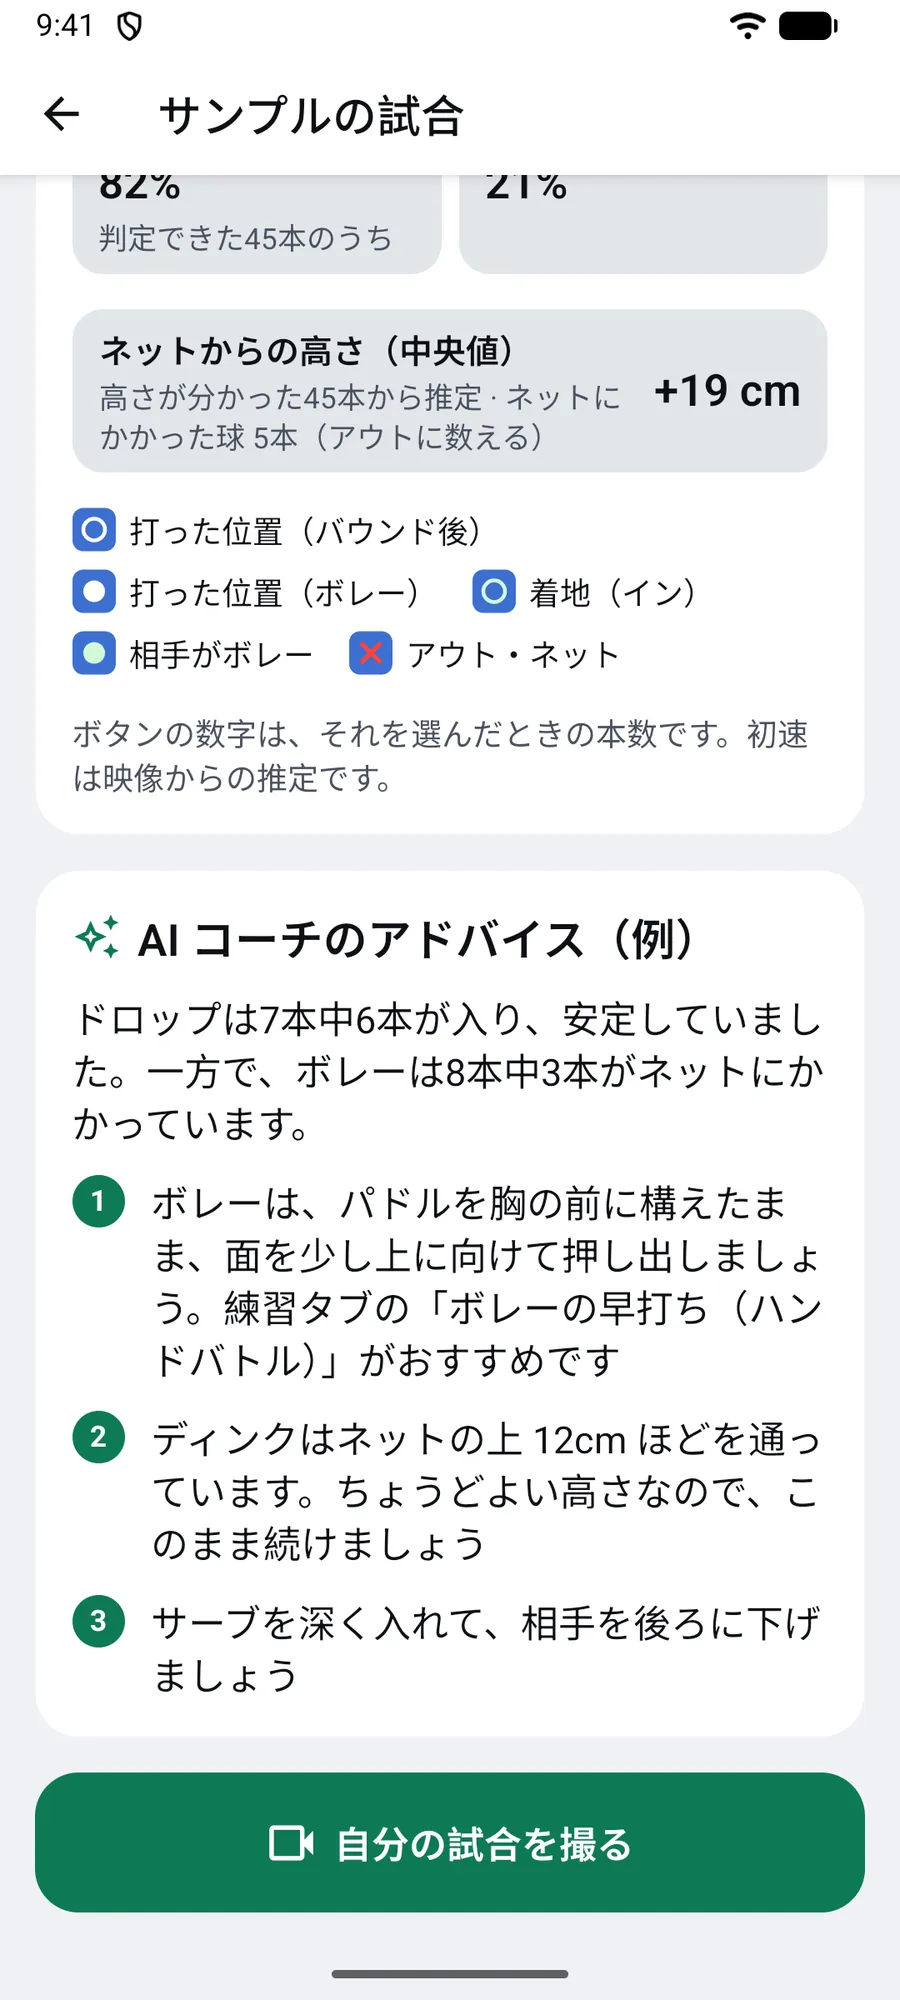
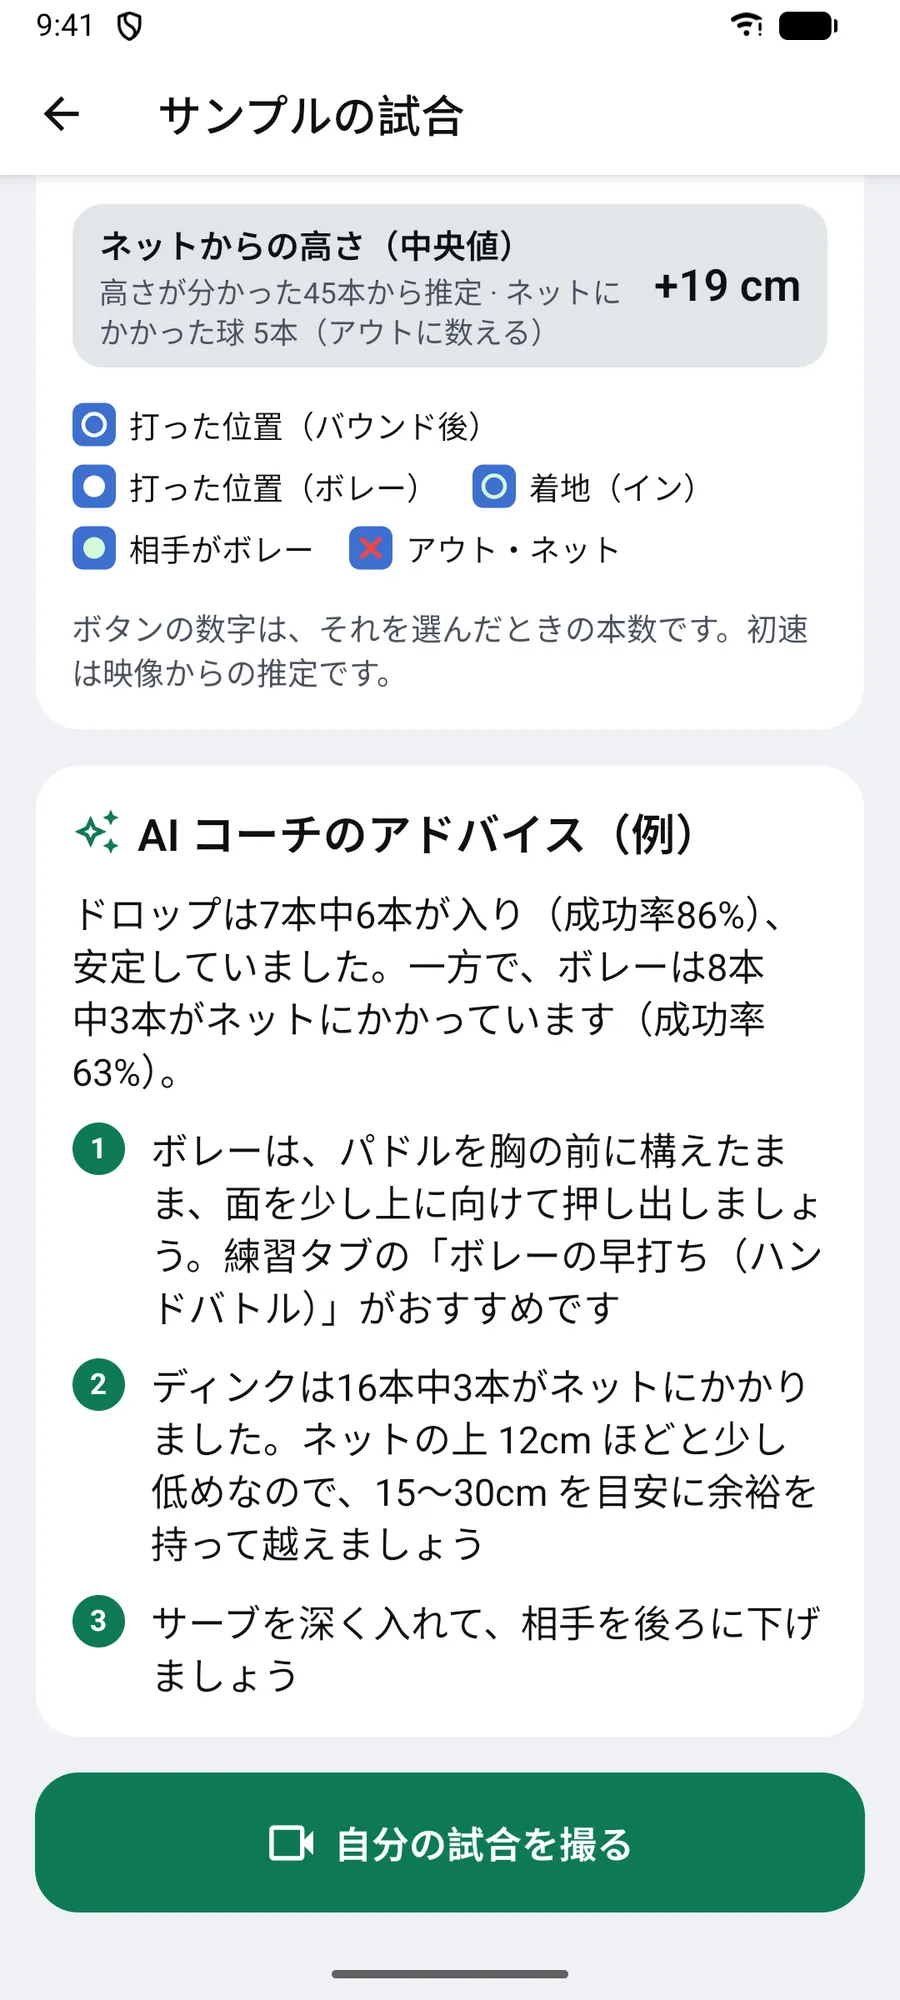
Pickle Up のページ: プライバシーの3つの約束を、前のカードの形（アイコンの四角と背景）に戻す。AI コーチの画像を、成功率とディンクの助言を入れた新しい例で撮り直す
Claude-Session: https://claude.ai/code/session_01RcorTwHLSLi3TqpLhpw8hm

diff --git a/ja/apps/pickle-up/index.html b/ja/apps/pickle-up/index.html
@@ -27,7 +27,7 @@
 <link rel="preconnect" href="https://fonts.gstatic.com" crossorigin>
 <link href="https://fonts.googleapis.com/css2?family=Inter:wght@400;500;600;700;800&family=Noto+Sans+JP:wght@400;500;700;800&display=swap" rel="stylesheet">
 <link rel="stylesheet" href="https://cdnjs.cloudflare.com/ajax/libs/remixicon/4.6.0/remixicon.min.css">
-<link rel="stylesheet" href="/assets/css/apps/pickle-up.css?v=6">
+<link rel="stylesheet" href="/assets/css/apps/pickle-up.css?v=7">
 </head>
 <body class="page-home">
 <header class="app-header">
@@ -107,7 +107,7 @@
 <section id="privacy" class="section section-dark">
 <div class="wrap">
 <h2 class="section-title"><span class="phrase">動画は、</span><span class="phrase">あなたのスマホから</span><span class="phrase">出ません</span></h2>
-<ul class="promises"><li><h3><i class="ri-lock-line" aria-hidden="true"></i>動画は外に出ない</h3><p>動画はあなたの端末にしか保存されません。サーバー側で処理するのは、動画から判定された骨格や打球の動きの情報のみです。</p></li><li><h3><i class="ri-user-unfollow-line" aria-hidden="true"></i>ログインなしで使える</h3><p>アカウント登録は不要です。機種変更などでデータを引き継ぎたい場合は、アカウントを作成して同期できます。</p></li><li><h3><i class="ri-eye-off-line" aria-hidden="true"></i>広告も追跡もなし</h3><p>行動を追跡するツールは組み込んでおらず、広告用途などであなたの情報が外に漏れることもありません。</p></li></ul>
+<ul class="promises"><li><i class="ri-lock-line" aria-hidden="true"></i><h3>動画は外に出ない</h3><p>動画はあなたの端末にしか保存されません。サーバー側で処理するのは、動画から判定された骨格や打球の動きの情報のみです。</p></li><li><i class="ri-user-unfollow-line" aria-hidden="true"></i><h3>ログインなしで使える</h3><p>アカウント登録は不要です。機種変更などでデータを引き継ぎたい場合は、アカウントを作成して同期できます。</p></li><li><i class="ri-eye-off-line" aria-hidden="true"></i><h3>広告も追跡もなし</h3><p>行動を追跡するツールは組み込んでおらず、広告用途などであなたの情報が外に漏れることもありません。</p></li></ul>
 <p class="section-more"><a href="privacy/">プライバシーポリシーを読む<i class="ri-arrow-right-line" aria-hidden="true"></i></a></p>
 </div>
 </section>
@@ -158,9 +158,9 @@
 </div>
 </div>
 </footer>
-<script src="/assets/js/app-menu.js?v=6" defer></script>
-<script src="/assets/js/app-lang.js?v=6" defer></script>
+<script src="/assets/js/app-menu.js?v=7" defer></script>
+<script src="/assets/js/app-lang.js?v=7" defer></script>
 <script>document.querySelectorAll('[data-year]').forEach(function (el) { el.textContent = new Date().getFullYear(); });</script>
-<script src="/assets/js/app-carousel.js?v=6" defer></script>
+<script src="/assets/js/app-carousel.js?v=7" defer></script>
 </body>
 </html>

diff --git a/en/apps/pickle-up/index.html b/en/apps/pickle-up/index.html
@@ -27,7 +27,7 @@
 <link rel="preconnect" href="https://fonts.gstatic.com" crossorigin>
 <link href="https://fonts.googleapis.com/css2?family=Inter:wght@400;500;600;700;800&family=Noto+Sans+JP:wght@400;500;700;800&display=swap" rel="stylesheet">
 <link rel="stylesheet" href="https://cdnjs.cloudflare.com/ajax/libs/remixicon/4.6.0/remixicon.min.css">
-<link rel="stylesheet" href="/assets/css/apps/pickle-up.css?v=6">
+<link rel="stylesheet" href="/assets/css/apps/pickle-up.css?v=7">
 </head>
 <body class="page-home">
 <header class="app-header">
@@ -107,7 +107,7 @@
 <section id="privacy" class="section section-dark">
 <div class="wrap">
 <h2 class="section-title">Your videos stay on your phone</h2>
-<ul class="promises"><li><h3><i class="ri-lock-line" aria-hidden="true"></i>Videos never leave it</h3><p>Videos are saved only on your phone. Our servers only handle the body and ball movement worked out from the video.</p></li><li><h3><i class="ri-user-unfollow-line" aria-hidden="true"></i>No sign-up</h3><p>No account needed. To move your data to a new phone, create an account and sync.</p></li><li><h3><i class="ri-eye-off-line" aria-hidden="true"></i>No ads, no tracking</h3><p>There are no tracking tools in the app, and your information never leaves it for advertising or anything like it.</p></li></ul>
+<ul class="promises"><li><i class="ri-lock-line" aria-hidden="true"></i><h3>Videos never leave it</h3><p>Videos are saved only on your phone. Our servers only handle the body and ball movement worked out from the video.</p></li><li><i class="ri-user-unfollow-line" aria-hidden="true"></i><h3>No sign-up</h3><p>No account needed. To move your data to a new phone, create an account and sync.</p></li><li><i class="ri-eye-off-line" aria-hidden="true"></i><h3>No ads, no tracking</h3><p>There are no tracking tools in the app, and your information never leaves it for advertising or anything like it.</p></li></ul>
 <p class="section-more"><a href="privacy/">Read the privacy policy<i class="ri-arrow-right-line" aria-hidden="true"></i></a></p>
 </div>
 </section>
@@ -158,9 +158,9 @@
 </div>
 </div>
 </footer>
-<script src="/assets/js/app-menu.js?v=6" defer></script>
-<script src="/assets/js/app-lang.js?v=6" defer></script>
+<script src="/assets/js/app-menu.js?v=7" defer></script>
+<script src="/assets/js/app-lang.js?v=7" defer></script>
 <script>document.querySelectorAll('[data-year]').forEach(function (el) { el.textContent = new Date().getFullYear(); });</script>
-<script src="/assets/js/app-carousel.js?v=6" defer></script>
+<script src="/assets/js/app-carousel.js?v=7" defer></script>
 </body>
 </html>

diff --git a/assets/css/apps/pickle-up.css b/assets/css/apps/pickle-up.css
@@ -144,13 +144,13 @@ html[lang="ja"] .feature h3 { letter-spacing: 0; }
 .carousel-dot[aria-current="true"]::before { background: var(--ink); transform: scale(1.25); }
 @media (prefers-reduced-motion: reduce) { .carousel-track { scroll-behavior: auto; } }
 
-/* Privacy promises: three short paragraphs side by side, the first the one that matters most */
-.promises { list-style: none; margin: 0; padding: 0; display: grid; gap: 2rem; }
-.promises li { padding-top: 1.25rem; border-top: 1px solid rgba(255,255,255,.14); }
-.promises h3 { display: flex; align-items: center; gap: .5rem; margin: 0 0 .5rem; font-size: 1.1875rem; }
-.promises h3 i { color: var(--mint); font-size: 1.25rem; }
+/* Privacy promises: three cards side by side, the first the one that matters most */
+.promises { list-style: none; margin: 0; padding: 0; display: grid; gap: 1rem; }
+.promises li { padding: 1.75rem; border-radius: var(--radius); background: var(--ink-2); border: 1px solid rgba(255,255,255,.06); }
+.promises i { display: inline-flex; width: 2.75rem; height: 2.75rem; align-items: center; justify-content: center; border-radius: 14px; background: var(--mint); color: var(--ink); font-size: 1.375rem; }
+.promises h3 { margin: 1.125rem 0 .375rem; font-size: 1.125rem; }
 .promises p { margin: 0; color: var(--on-ink-muted); }
-@media (min-width: 760px) { .promises { grid-template-columns: repeat(3, 1fr); gap: 2.5rem; } }
+@media (min-width: 760px) { .promises { grid-template-columns: repeat(3, 1fr); } }
 
 /* Steps */
 .steps { list-style: none; margin: 0; padding: 0; display: grid; gap: 1rem; counter-reset: none; }

diff --git a/ja/apps/pickle-up/support/index.html b/ja/apps/pickle-up/support/index.html
@@ -27,7 +27,7 @@
 <link rel="preconnect" href="https://fonts.gstatic.com" crossorigin>
 <link href="https://fonts.googleapis.com/css2?family=Inter:wght@400;500;600;700;800&family=Noto+Sans+JP:wght@400;500;700;800&display=swap" rel="stylesheet">
 <link rel="stylesheet" href="https://cdnjs.cloudflare.com/ajax/libs/remixicon/4.6.0/remixicon.min.css">
-<link rel="stylesheet" href="/assets/css/apps/pickle-up.css?v=6">
+<link rel="stylesheet" href="/assets/css/apps/pickle-up.css?v=7">
 </head>
 <body class="page-doc">
 <header class="app-header">
@@ -78,7 +78,7 @@
 <button type="submit" class="button">メールで送る<i class="ri-mail-send-line" aria-hidden="true"></i></button>
 </form>
 </section>
-<script src="/assets/js/app-contact.js?v=6" defer></script>
+<script src="/assets/js/app-contact.js?v=7" defer></script>
 </div>
 </main>
 <footer class="app-footer">
@@ -111,8 +111,8 @@
 </div>
 </div>
 </footer>
-<script src="/assets/js/app-menu.js?v=6" defer></script>
-<script src="/assets/js/app-lang.js?v=6" defer></script>
+<script src="/assets/js/app-menu.js?v=7" defer></script>
+<script src="/assets/js/app-lang.js?v=7" defer></script>
 <script>document.querySelectorAll('[data-year]').forEach(function (el) { el.textContent = new Date().getFullYear(); });</script>
 </body>
 </html>

diff --git a/en/apps/pickle-up/support/index.html b/en/apps/pickle-up/support/index.html
@@ -27,7 +27,7 @@
 <link rel="preconnect" href="https://fonts.gstatic.com" crossorigin>
 <link href="https://fonts.googleapis.com/css2?family=Inter:wght@400;500;600;700;800&family=Noto+Sans+JP:wght@400;500;700;800&display=swap" rel="stylesheet">
 <link rel="stylesheet" href="https://cdnjs.cloudflare.com/ajax/libs/remixicon/4.6.0/remixicon.min.css">
-<link rel="stylesheet" href="/assets/css/apps/pickle-up.css?v=6">
+<link rel="stylesheet" href="/assets/css/apps/pickle-up.css?v=7">
 </head>
 <body class="page-doc">
 <header class="app-header">
@@ -78,7 +78,7 @@
 <button type="submit" class="button">Continue to email<i class="ri-mail-send-line" aria-hidden="true"></i></button>
 </form>
 </section>
-<script src="/assets/js/app-contact.js?v=6" defer></script>
+<script src="/assets/js/app-contact.js?v=7" defer></script>
 </div>
 </main>
 <footer class="app-footer">
@@ -111,8 +111,8 @@
 </div>
 </div>
 </footer>
-<script src="/assets/js/app-menu.js?v=6" defer></script>
-<script src="/assets/js/app-lang.js?v=6" defer></script>
+<script src="/assets/js/app-menu.js?v=7" defer></script>
+<script src="/assets/js/app-lang.js?v=7" defer></script>
 <script>document.querySelectorAll('[data-year]').forEach(function (el) { el.textContent = new Date().getFullYear(); });</script>
 </body>
 </html>

diff --git a/en/apps/pickle-up/privacy/index.html b/en/apps/pickle-up/privacy/index.html
@@ -27,7 +27,7 @@
 <link rel="preconnect" href="https://fonts.gstatic.com" crossorigin>
 <link href="https://fonts.googleapis.com/css2?family=Inter:wght@400;500;600;700;800&family=Noto+Sans+JP:wght@400;500;700;800&display=swap" rel="stylesheet">
 <link rel="stylesheet" href="https://cdnjs.cloudflare.com/ajax/libs/remixicon/4.6.0/remixicon.min.css">
-<link rel="stylesheet" href="/assets/css/apps/pickle-up.css?v=6">
+<link rel="stylesheet" href="/assets/css/apps/pickle-up.css?v=7">
 </head>
 <body class="page-doc">
 <header class="app-header">
@@ -182,8 +182,8 @@
 </div>
 </div>
 </footer>
-<script src="/assets/js/app-menu.js?v=6" defer></script>
-<script src="/assets/js/app-lang.js?v=6" defer></script>
+<script src="/assets/js/app-menu.js?v=7" defer></script>
+<script src="/assets/js/app-lang.js?v=7" defer></script>
 <script>document.querySelectorAll('[data-year]').forEach(function (el) { el.textContent = new Date().getFullYear(); });</script>
 </body>
 </html>

diff --git a/ja/apps/pickle-up/privacy/index.html b/ja/apps/pickle-up/privacy/index.html
@@ -27,7 +27,7 @@
 <link rel="preconnect" href="https://fonts.gstatic.com" crossorigin>
 <link href="https://fonts.googleapis.com/css2?family=Inter:wght@400;500;600;700;800&family=Noto+Sans+JP:wght@400;500;700;800&display=swap" rel="stylesheet">
 <link rel="stylesheet" href="https://cdnjs.cloudflare.com/ajax/libs/remixicon/4.6.0/remixicon.min.css">
-<link rel="stylesheet" href="/assets/css/apps/pickle-up.css?v=6">
+<link rel="stylesheet" href="/assets/css/apps/pickle-up.css?v=7">
 </head>
 <body class="page-doc">
 <header class="app-header">
@@ -182,8 +182,8 @@
 </div>
 </div>
 </footer>
-<script src="/assets/js/app-menu.js?v=6" defer></script>
-<script src="/assets/js/app-lang.js?v=6" defer></script>
+<script src="/assets/js/app-menu.js?v=7" defer></script>
+<script src="/assets/js/app-lang.js?v=7" defer></script>
 <script>document.querySelectorAll('[data-year]').forEach(function (el) { el.textContent = new Date().getFullYear(); });</script>
 </body>
 </html>

diff --git a/scripts/app_pages/build.py b/scripts/app_pages/build.py
@@ -16,7 +16,7 @@ LANGS = ('ja', 'en')
 OTHER = {'ja': 'en', 'en': 'ja'}
 LANG_LABEL = {'ja': '日本語', 'en': 'English'}
 OG_LOCALE = {'ja': 'ja_JP', 'en': 'en_US'}
-CSS_VERSION = 6
+CSS_VERSION = 7
 
 
 def read(path):
@@ -234,7 +234,7 @@ class App:
 </div>
 </article>''')
         pv = t['privacy']
-        pv_items = ''.join(f'<li><h3><i class="{icon}" aria-hidden="true"></i>{e(a)}</h3><p>{e(b)}</p></li>' for icon, a, b in pv['items'])
+        pv_items = ''.join(f'<li><i class="{icon}" aria-hidden="true"></i><h3>{e(a)}</h3><p>{e(b)}</p></li>' for icon, a, b in pv['items'])
         steps = ''.join(f'<li><span class="step-number" lang="en">{n + 1}</span><h3>{e(a)}</h3><p>{e(b)}</p></li>'
                         for n, (a, b) in enumerate(t['how']['steps']))
         faq = ''.join(f'<details><summary>{e(q)}<i class="ri-add-line" aria-hidden="true"></i></summary><p>{e(a)}</p></details>'
